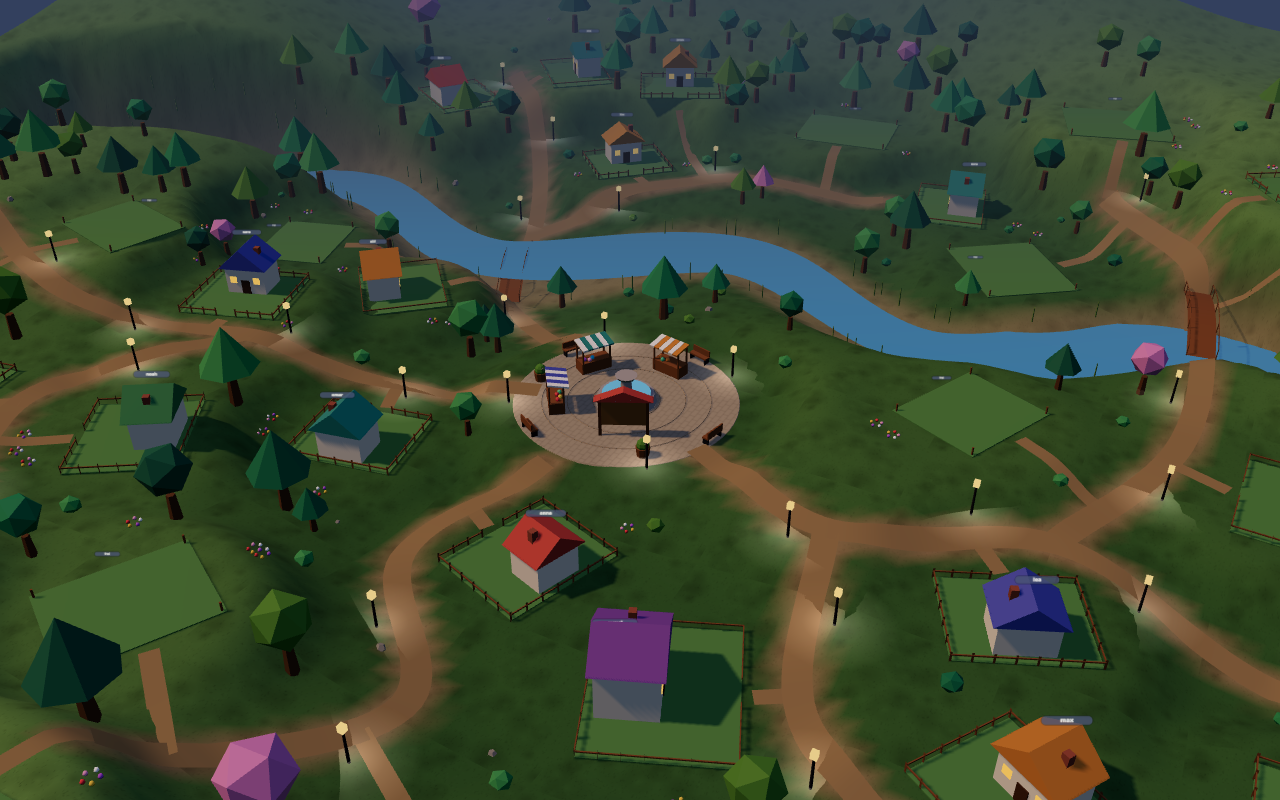
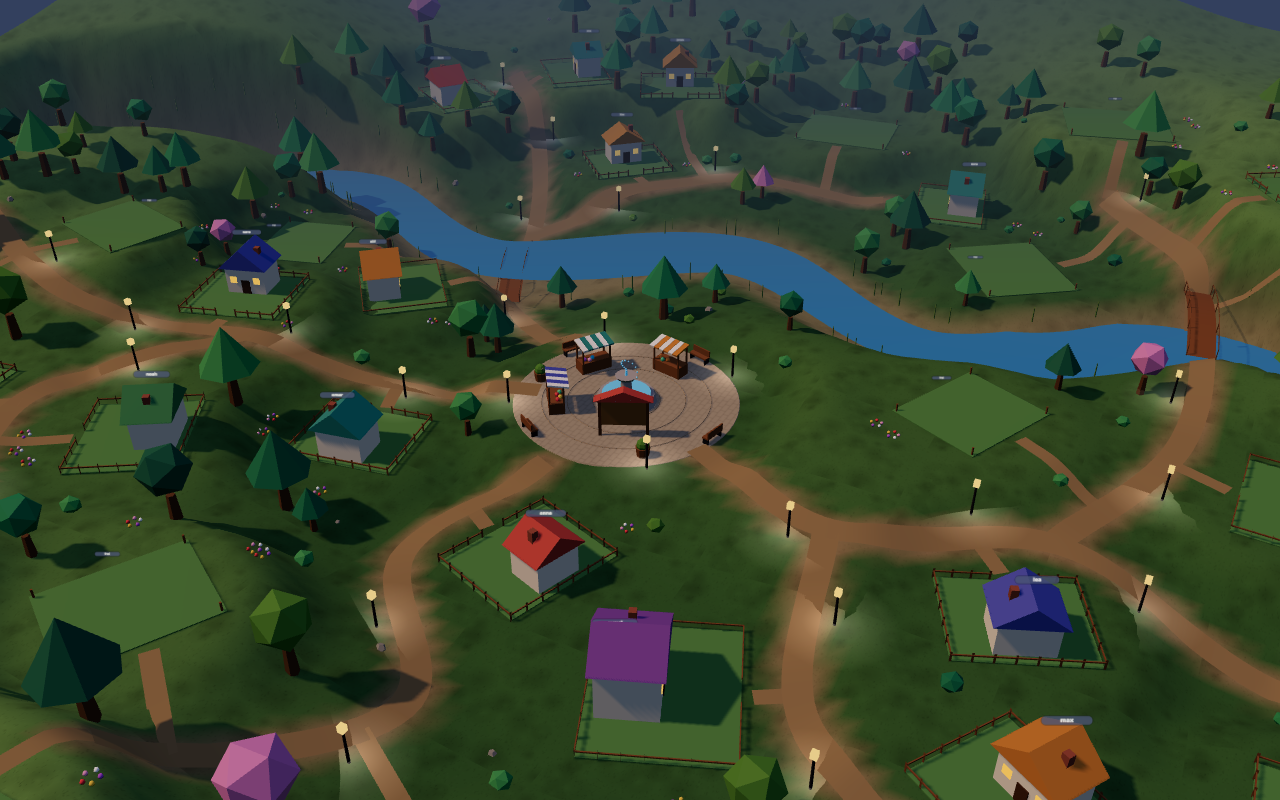
Animierte Wellen am Fluss, Brunnen mit Strahl und Tropfen, Baumschatten
- render/textures.ts: waterTexture, im Fluss verschoben
- render/plaza.ts: Brunnenstrahl pulsiert, Tropfen als InstancedMesh
- render/village.ts: userData.animate am Dorf; die Dorf-Ansicht und die Galerie rufen es je Bild auf
- render/nature.ts: Bäume werfen Schatten
- 235 Vitest-Tests grün

diff --git a/web/src/render/village.ts b/web/src/render/village.ts
@@ -11,7 +11,7 @@ import { buildNature, buildVegetation } from './nature';
 import { buildPlaza } from './plaza';
 import { buildBridge } from './bridges';
 import { bakeStatic } from './merge';
-import { dirtTexture, grassTexture, skyTexture } from './textures';
+import { dirtTexture, grassTexture, skyTexture, waterTexture } from './textures';
 import { chimney, fenceGeometry, gableRoof, gardenPathGeometry } from './house';
 import { mergeGeometries } from 'three/addons/utils/BufferGeometryUtils.js';
 
@@ -117,13 +117,15 @@ function terrainMesh(layout: Layout): THREE.Mesh {
 
 function riverMesh(river: Point2[]): THREE.Mesh {
   // width changes between 5.6 and 8.8 m along the course (LOOK §4)
-  return ribbon(
+  const wave = waterTexture();
+  const mesh = ribbon(
     river,
     (i) => 7.2 + 1.6 * Math.sin(i * 0.09),
     () => -0.55,
     // water reflects the evening sky (cheap environment map, no second render pass)
     new THREE.MeshStandardMaterial({
       color: '#5fb3d9',
+      map: wave,
       roughness: 0.12,
       metalness: 0.45,
       envMap: skyTexture(),
@@ -131,6 +133,8 @@ function riverMesh(river: Point2[]): THREE.Mesh {
       side: THREE.DoubleSide,
     }),
   );
+  mesh.userData = { waterMap: wave };
+  return mesh;
 }
 
 export interface VillageMember {
@@ -275,7 +279,8 @@ export function buildVillage(
   const root = new THREE.Group();
   const byPlot = new Map(members.map((m) => [m.plotIndex, m]));
   root.add(terrainMesh(layout));
-  root.add(riverMesh(layout.terrain.river));
+  const river = riverMesh(layout.terrain.river);
+  root.add(river);
 
   // lanes: a thin dirt strip on the ground (1.6 m), textured, lifted 5 cm; the colour in the
   // terrain (see terrainMesh) underneath matches, so the edge is soft
@@ -300,7 +305,8 @@ export function buildVillage(
   }
 
   // plaza: paving, fountain, quest board, stalls, benches (render/plaza.ts)
-  root.add(buildPlaza(layout));
+  const plaza = buildPlaza(layout);
+  root.add(plaza);
 
   for (const b of layout.bridges) root.add(buildBridge(b, MAT.wood));
 
@@ -316,5 +322,11 @@ export function buildVillage(
   root.add(gardenMesh);
   root.add(buildNature(layout));
   root.add(buildVegetation(layout));
+  // animation hook: the village calls it every frame (water waves, fountain)
+  root.userData.animate = (t: number): void => {
+    const wave = river.userData.waterMap as THREE.Texture;
+    wave.offset.set(t * 0.012, t * 0.005);
+    (plaza.userData.animate as ((t: number) => void) | undefined)?.(t);
+  };
   return bakeStatic(root);
 }

diff --git a/web/src/render/plaza.ts b/web/src/render/plaza.ts
@@ -179,6 +179,36 @@ export function buildPlaza(layout: Layout): THREE.Group {
   const f = fountain(layout);
   f.position.set(layout.plaza.x, 0, layout.plaza.z);
   root.add(f);
+  // water jet and droplets (animated each frame, see userData.animate)
+  const jetMat = new THREE.MeshStandardMaterial({
+    color: '#8fd3f0',
+    emissive: '#2a6f9a',
+    emissiveIntensity: 0.6,
+    roughness: 0.1,
+  });
+  const jet = new THREE.Mesh(new THREE.CylinderGeometry(0.06, 0.12, 1, 6), jetMat);
+  jet.position.set(layout.plaza.x, layout.plazaHeight + 2.1, layout.plaza.z);
+  root.add(jet);
+  const DROPS = 14;
+  const dropMesh = new THREE.InstancedMesh(new THREE.SphereGeometry(0.07, 5, 4), jetMat, DROPS);
+  dropMesh.frustumCulled = false;
+  root.add(dropMesh);
+  const m = new THREE.Matrix4();
+  root.userData.animate = (t: number): void => {
+    // the jet pulses in height; the droplets rise, arc outwards and fall into the basin
+    const pulse = 0.85 + 0.15 * Math.sin(t * 4);
+    jet.scale.set(1, 0.9 * pulse, 1);
+    jet.position.y = layout.plazaHeight + 2.1 + 0.25 * pulse;
+    for (let i = 0; i < DROPS; i++) {
+      const phase = (t * 0.7 + i / DROPS) % 1;
+      const a = (i / DROPS) * Math.PI * 2;
+      const r = phase * 0.9;
+      const h = layout.plazaHeight + 2.3 + Math.sin(phase * Math.PI) * 0.9 - phase * 0.4;
+      m.makeTranslation(layout.plaza.x + Math.cos(a) * r, h, layout.plaza.z + Math.sin(a) * r);
+      dropMesh.setMatrixAt(i, m);
+    }
+    dropMesh.instanceMatrix.needsUpdate = true;
+  };
 
   const b = board(layout);
   b.position.set(layout.board.x, 0, layout.board.z);

diff --git a/web/src/render/textures.ts b/web/src/render/textures.ts
@@ -120,3 +120,25 @@ export const skyTexture = (): THREE.CanvasTexture => {
   tex.colorSpace = THREE.SRGBColorSpace;
   return tex;
 };
+
+/** Water: soft wave bands, tiled and scrolled over the river so it looks like it moves. */
+export const waterTexture = (): THREE.CanvasTexture => {
+  const tex = canvasTexture(256, (cx, rnd) => {
+    cx.fillStyle = '#c9dfe8';
+    cx.fillRect(0, 0, 256, 256);
+    for (let i = 0; i < 26; i++) {
+      const y = rnd() * 256;
+      cx.strokeStyle = rnd() < 0.5 ? 'rgba(255,255,255,0.35)' : 'rgba(30,70,100,0.18)';
+      cx.lineWidth = 2 + rnd() * 3;
+      cx.beginPath();
+      for (let x = 0; x <= 256; x += 8) {
+        const yy = y + Math.sin((x / 256) * Math.PI * 4 + i) * 4;
+        if (x === 0) cx.moveTo(x, yy);
+        else cx.lineTo(x, yy);
+      }
+      cx.stroke();
+    }
+  });
+  tex.repeat.set(6, 3);
+  return tex;
+};

diff --git a/web/src/ui/villageView.ts b/web/src/ui/villageView.ts
@@ -210,7 +210,8 @@ export async function mountVillage(
   const labels = members
     .filter((m) => m.plotIndex !== null)
     .map((m) => ({ plotIndex: m.plotIndex as number, nickname: m.nickname }));
-  scene.add(buildVillage(layout, labels, ownPlot));
+  const village = buildVillage(layout, labels, ownPlot);
+  scene.add(village);
   // decorations of the whole class (PLAN 4.5), one instanced mesh per item type
   const plotOf = new Map(
     members.filter((m) => m.plotIndex !== null).map((m) => [m.id, m.plotIndex as number]),
@@ -338,6 +339,7 @@ export async function mountVillage(
       }
     }
     crowd.update(dt);
+    (village.userData.animate as ((t: number) => void) | undefined)?.(performance.now() / 1000);
     controls.update();
     gl.render(scene, camera);
   });

diff --git a/web/dev/galerie.ts b/web/dev/galerie.ts
@@ -108,7 +108,10 @@ function setView(name: string): void {
 /** Lets the residents walk for `seconds` so the picture shows a living village. */
 function step(seconds: number): void {
   const dt = 0.1;
-  for (let t = 0; t < seconds; t += dt) crowd.update(dt);
+  for (let t = 0; t < seconds; t += dt) {
+    crowd.update(dt);
+    (village.userData.animate as ((t: number) => void) | undefined)?.(t);
+  }
 }
 
 /** Draw calls: whole picture, and the world without the residents. */

diff --git a/web/src/render/nature.ts b/web/src/render/nature.ts
@@ -114,6 +114,7 @@ function treeGroup(trees: Tree[], kind: Tree['kind']): THREE.Group {
       ),
     );
   }
+  g.children.forEach((c) => (c.castShadow = true)); // trees cast shadows (LOOK §3)
   return g;
 }
 

diff --git a/docs/PLAN.md b/docs/PLAN.md
@@ -219,3 +219,5 @@ Ziel: Schüler kaufen Deko und gestalten ihr Grundstück; Mitschüler sehen es.
 | 17.10.2026 | L.9 Leistung | `render/merge.ts`: statische Szenerie (Häuser, Zäune, Dächer, Platz-Möbel, Brücken, Fenster) je Materialart zu wenigen Meshes zusammengefasst. Texturierte Flächen, Wasser, Instancing, Schilder und die Tafel bleiben getrennt. Figuren als ein Mesh je Figur (Winken als Hüpfen statt Armschwung). Galerie `tal` Übersicht: 102 Draw Calls gesamt, Welt ~50 (Ziel < 60). Mit 32 Figuren geschätzt ~120 (Ziel < 150). Am Tablet noch zu prüfen (L.11) |
 | 17.10.2026 | Brücken | `render/bridges.ts`: gewölbtes Deck (0,8 m Bogen), schlanke Handläufe mit Pfosten. Die flachen Kästen entfallen |
 | 17.10.2026 | Wasser | Fluss mit Himmelsspiegelung über eine günstige Umgebungskarte (Abendhimmel, `skyTexture`), kein zweiter Renderdurchgang. Kein echtes Spiegelbild der Häuser. Die Physik-Engine ist nicht eingebaut (Gewicht für Tablets, kein Bedarf im Spiel) |
+| 17.10.2026 | Wasser und Brunnen animiert | Flusswellen: Wellentextur, die über den Fluss wandert (`waterTexture`). Brunnen: Strahl pulsiert, 14 Tropfen steigen, schwingen nach außen und fallen zurück. Animationshook `userData.animate` am Dorf, von der Dorf-Ansicht und der Galerie aufgerufen |
+| 17.10.2026 | Schatten | Bäume werfen Schatten (Instancing mit Schattenwurf nur für Bäume, damit die Draw Calls niedrig bleiben). Häuser und Zäune werfen bereits Schatten |
